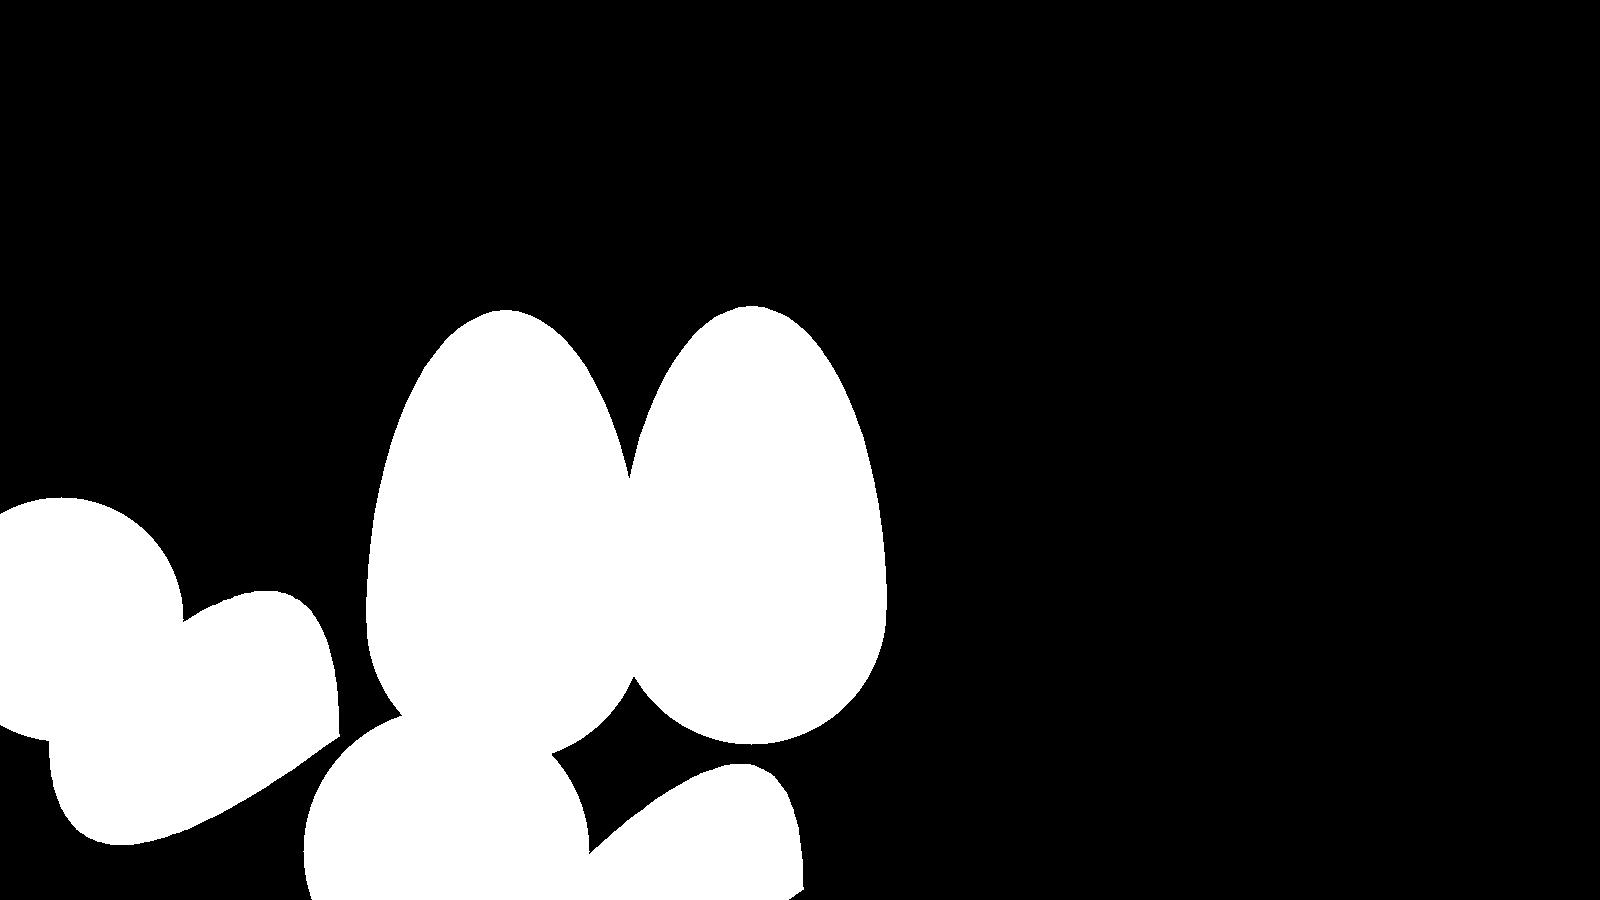
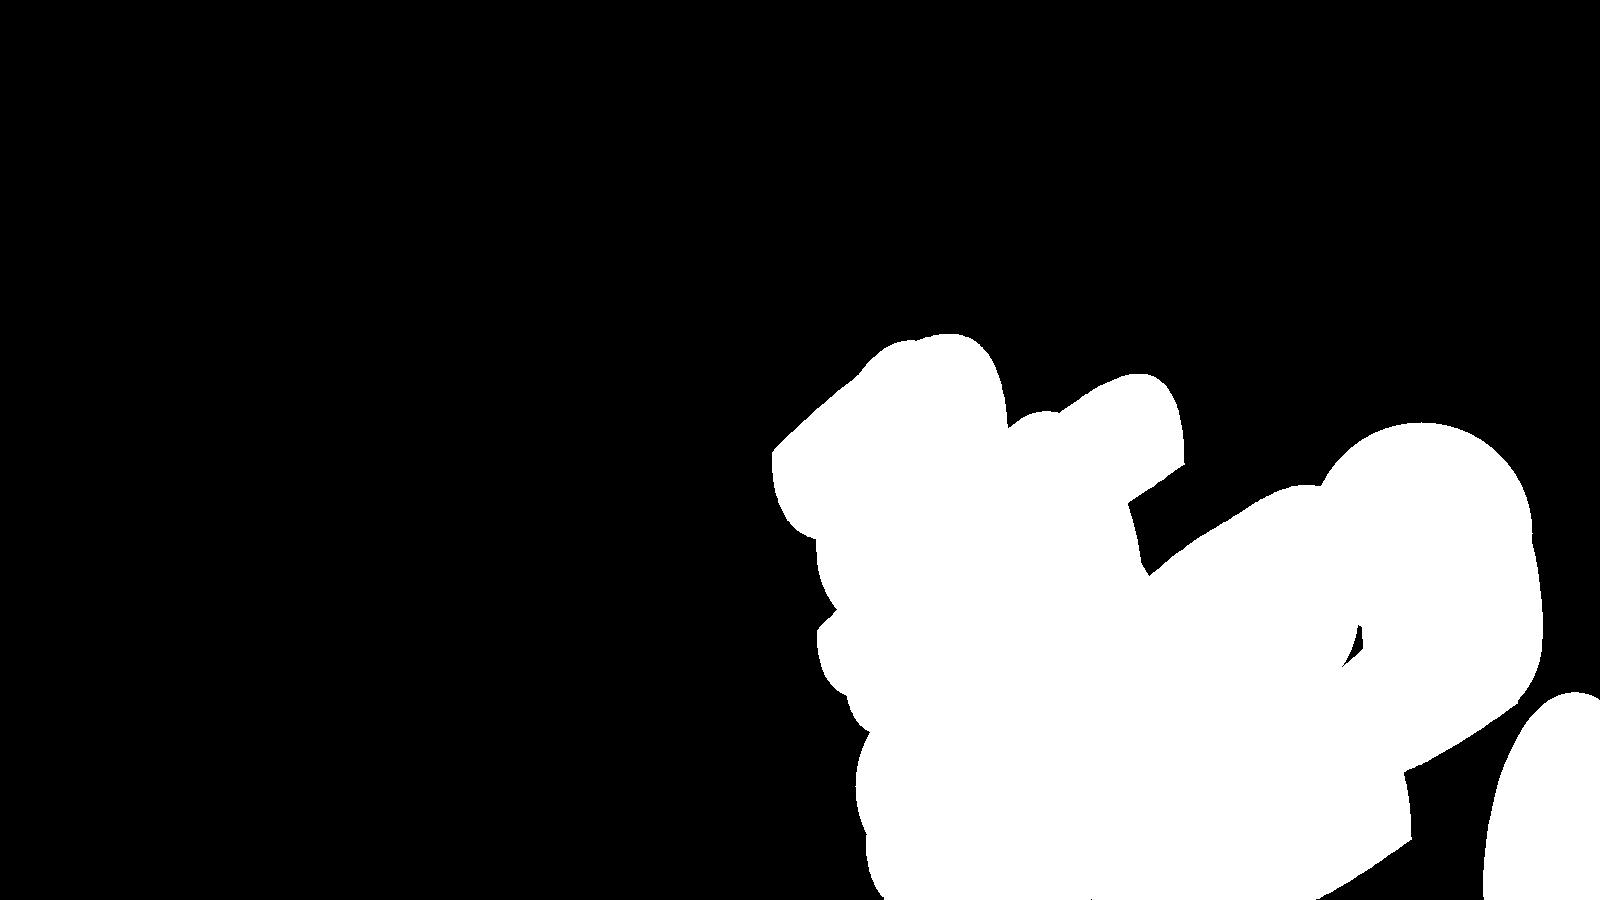
forth_data.csv

diff --git a/raindrops_generator/download_scripts.py b/raindrops_generator/download_scripts.py
@@ -1,0 +1,52 @@
+import os
+import requests
+
+def download_files(txt_file_path, save_directory):
+    """
+    Download files from URLs listed in a text file and save them to the specified directory.
+
+    :param txt_file_path: Path to the text file containing URLs.
+    :param save_directory: Directory to save the downloaded files.
+    """
+    # Create the save directory if it does not exist
+    os.makedirs(save_directory, exist_ok=True)
+
+    # Read the text file line by line
+    with open(txt_file_path, 'r') as file:
+        urls = file.readlines()
+
+    # Loop through each URL and download the file
+    for url in urls:
+        url = url.strip()  # Remove any leading/trailing whitespace
+        if not url:
+            continue  # Skip empty lines
+
+        try:
+            # Get the file name from the URL
+            file_name = os.path.basename(url)
+            save_path = os.path.join(save_directory, file_name)
+
+            print(f"Downloading {url}...")
+            response = requests.get(url, stream=True)
+            response.raise_for_status()  # Raise an exception for HTTP errors
+
+            # Save the file to the specified directory
+            with open(save_path, 'wb') as file:
+                for chunk in response.iter_content(chunk_size=1024):
+                    if chunk:
+                        file.write(chunk)
+
+            print(f"Saved: {save_path}")
+
+        except requests.exceptions.RequestException as e:
+            print(f"Failed to download {url}: {e}")
+
+if __name__ == "__main__":
+    # Path to the text file containing the URLs
+    txt_file_path = "nuscenes_trainval.txt"  # Replace with the path to your text file
+
+    # Directory where files will be saved
+    save_directory = "/media/yoshi-22/iASL-data001/data/nuscenes"  # Replace with your desired directory
+
+    # Download the files
+    download_files(txt_file_path, save_directory)

diff --git a/raindrops_generator/write_csv_data.py b/raindrops_generator/write_csv_data.py
@@ -51,15 +51,15 @@ def process_images(input_folder_path, output_folder_path, list_of_drops):
 
 if __name__ == "__main__":
     # Paths and configurations
-    csv_folder_path = "csv_data/"
+    csv_folder_path = "csv_data_forth/"
     csv_paths = [
-        os.path.join(csv_folder_path, f"drops{i}.csv") for i in range(1, 10)
+        os.path.join(csv_folder_path, f"forth_{i}.csv") for i in range(1, 5)
     ]
     image_folders = {
-        f"/home/yoshi-22/UniAD/data/nuscenes/samples{i}": f"/home/yoshi-22/UniAD/ROLE/nuscenes/samples" for i in range(1, 10)
+        f"/home/yoshi-22/UniAD/data/nuscenes/samples{i}": f"/home/yoshi-22/UniAD/ROLE/nuscenes/samples" for i in range(1, 5)
     }
     image_folders.update({
-        f"/home/yoshi-22/UniAD/data/nuscenes/sweeps{i}": f"/home/yoshi-22/UniAD/ROLE/nuscenes/sweeps" for i in range(1, 10)
+        f"/home/yoshi-22/UniAD/data/nuscenes/sweeps{i}": f"/home/yoshi-22/UniAD/ROLE/nuscenes/sweeps" for i in range(1, 5)
     })
 
     print("image_folders:", image_folders)

diff --git a/raindrops_generator/raindrop/config.py b/raindrops_generator/raindrop/config.py
@@ -10,10 +10,10 @@ A, B, C, D -- 4 tuples defining coordinates of Bezier control points in Alpha Ma
 """
 
 cfg = {
-	'maxR': 150, # max not more then 150
+	'maxR': 120, # max not more then 150
 	'minR': 90,
-	'maxDrops': 30,
-	'minDrops': 10,
+	'maxDrops': 70,
+	'minDrops': 50,
 	'edge_darkratio': 0.6,
 	'return_label': True,
 	'label_thres': 128,
@@ -21,5 +21,5 @@ cfg = {
 	'B': (3, 1),
 	'C': (1, 3),
 	'D': (3, 3),
-    'region': 'bottom-left',
+    'region': 'forth-bottom-right',
 }
